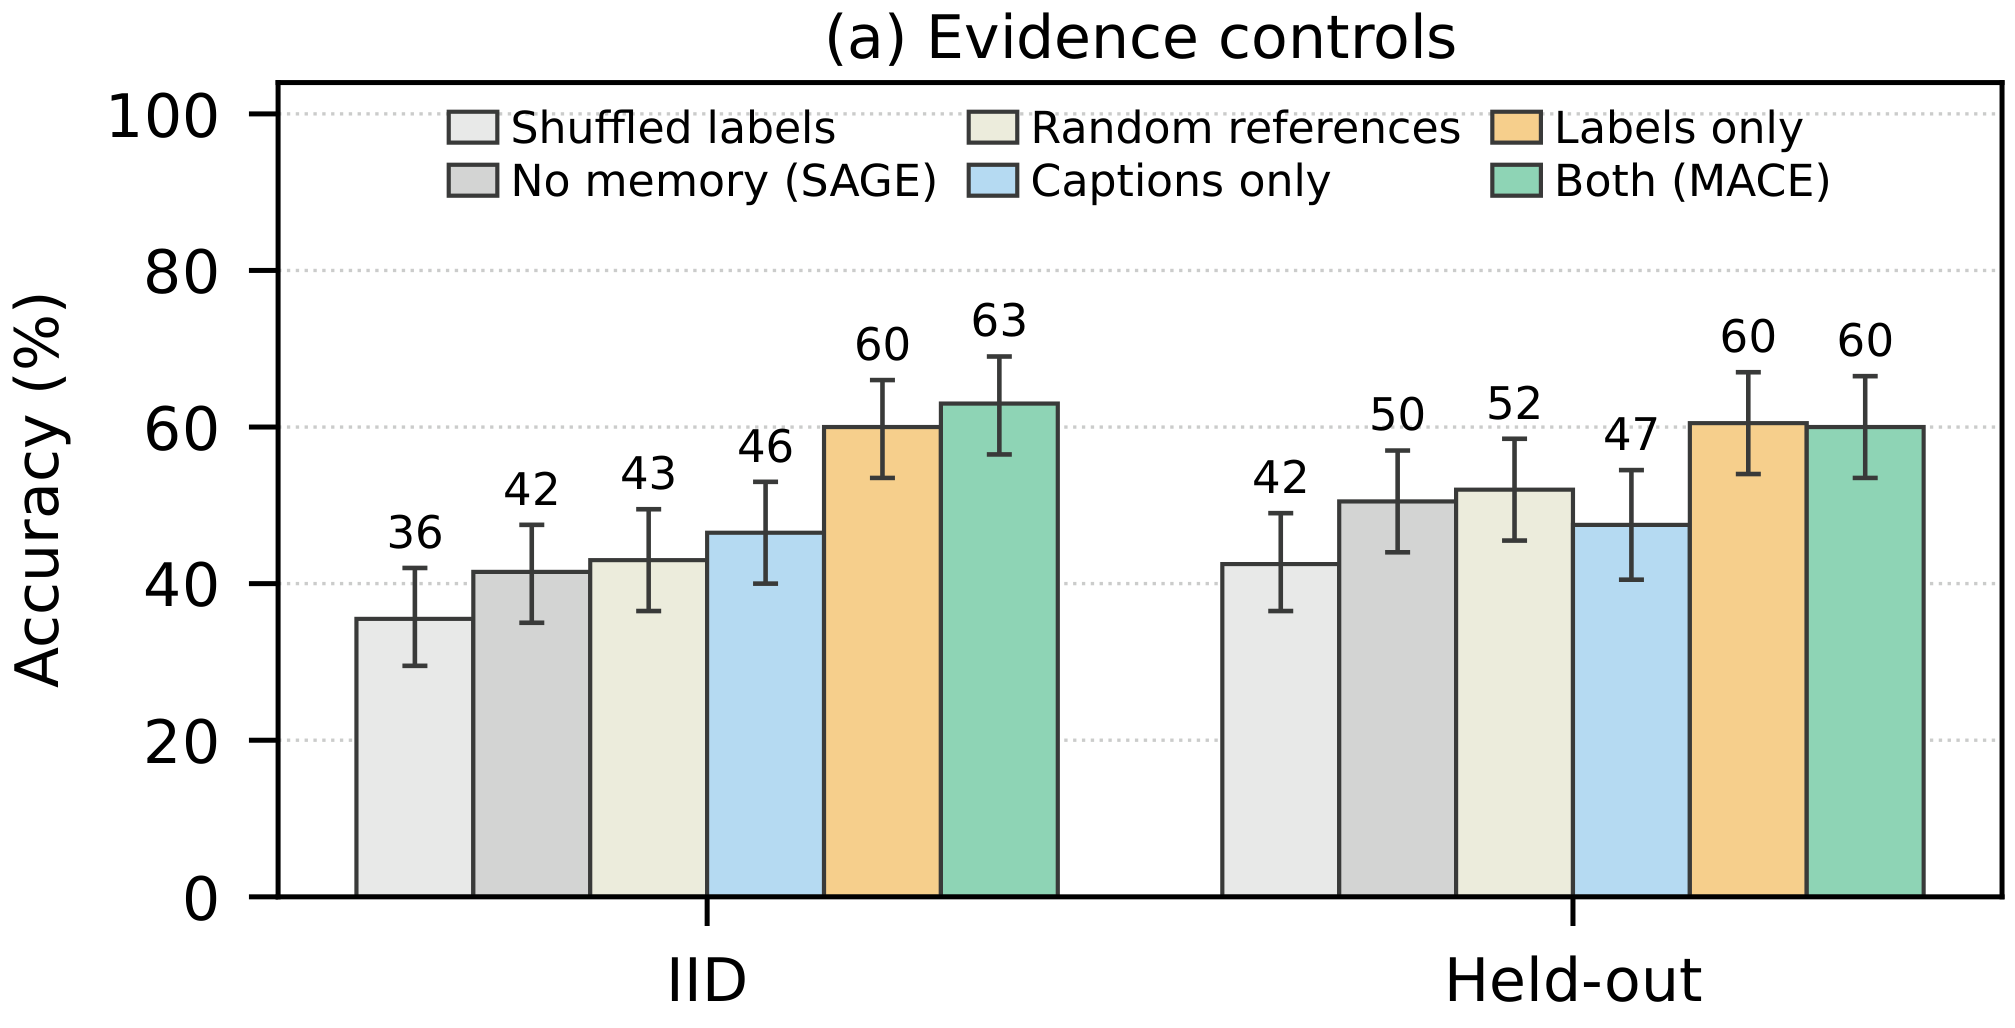
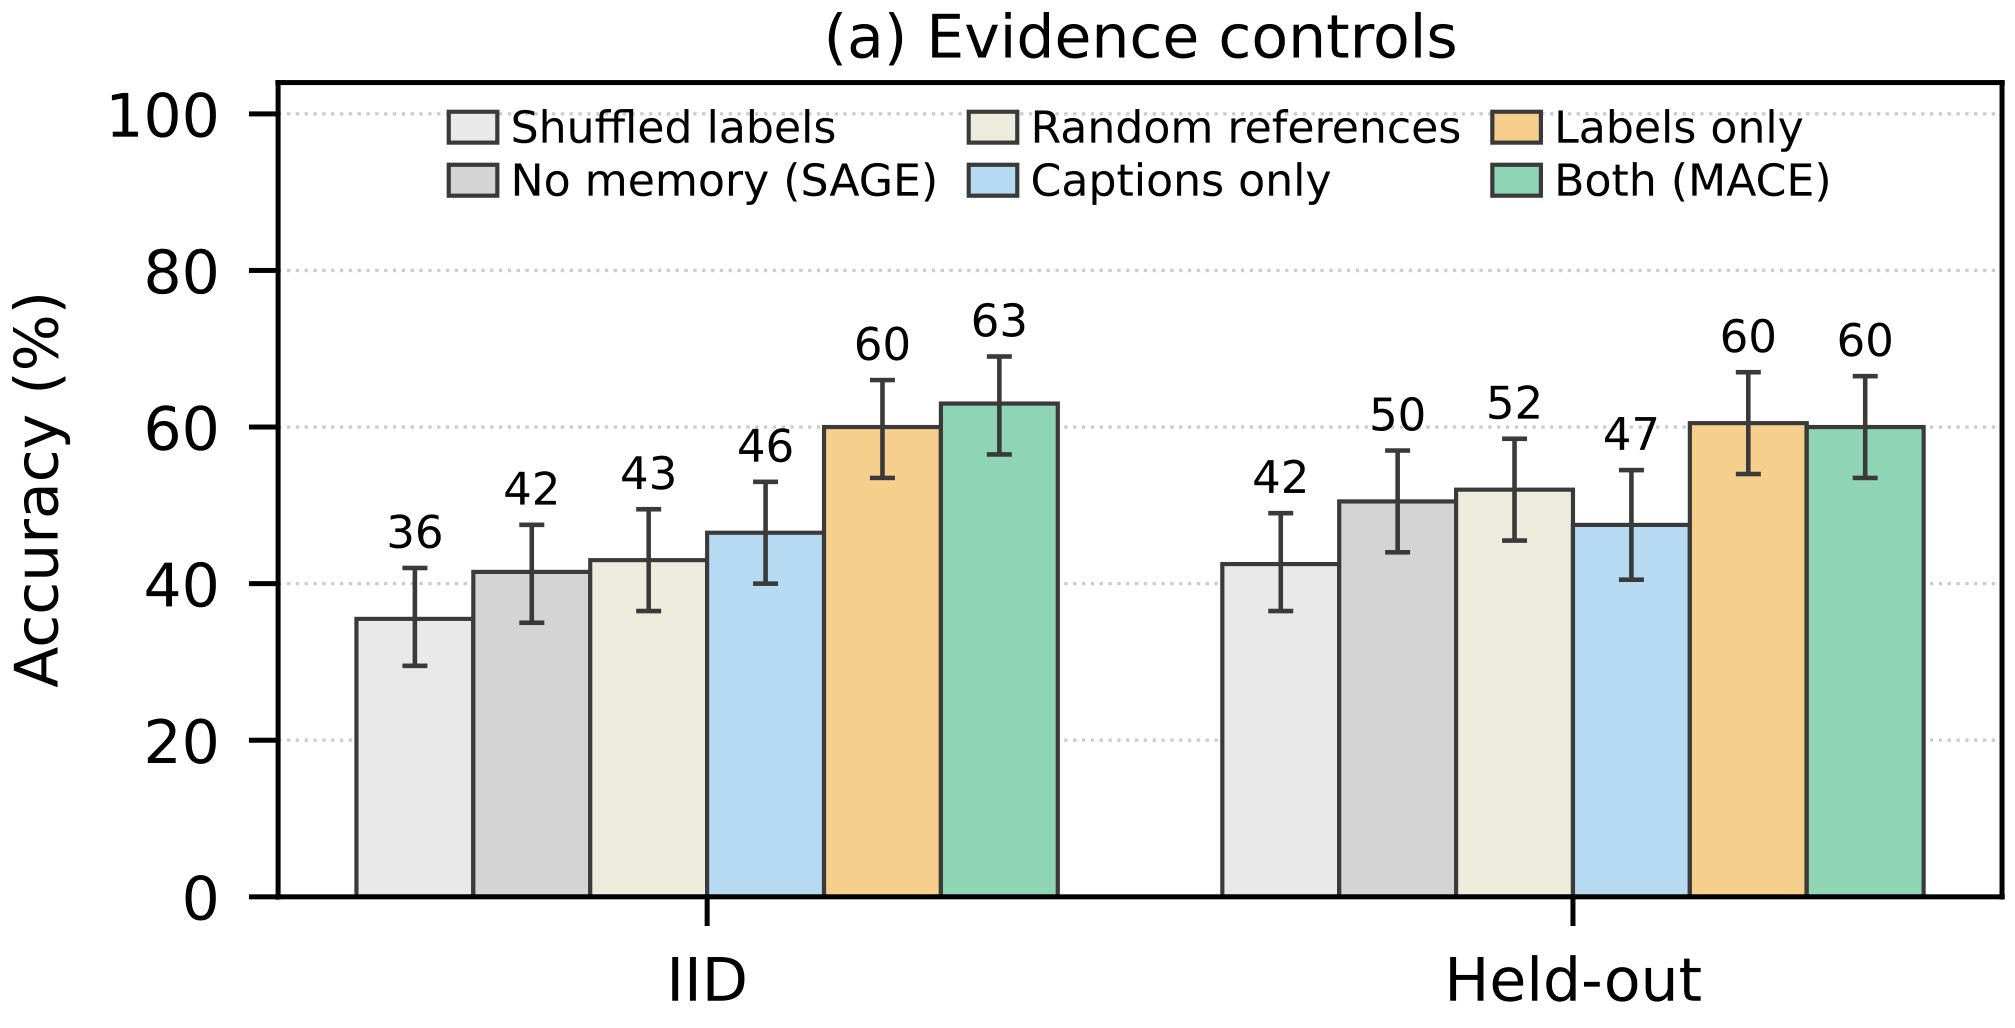
Update Figure 1 and traces to the final paper figures; sync code

diff --git a/code/mace10/build_submission.py b/code/mace10/build_submission.py
@@ -1,0 +1,105 @@
+"""Write the AAAI-compliant single-file paper from mace10/paper_src and render the TikZ figures to PDF.
+
+  python -m mace10.build_submission <overleaf_clone>      needs pdflatex on PATH
+
+AAAI kit rules applied: one .tex file (no \\input), no embedded links or bookmarks, no \\tiny or \\setlength, no float changes,
+plain title block, no Identity-H or Type 3 fonts, only used graphics in the project.
+"""
+from __future__ import annotations
+
+import re
+import shutil
+import subprocess
+import sys
+from pathlib import Path
+
+SRC = Path(__file__).resolve().parent / "paper_src"
+FIGS = ["fig2_crops", "fig_evidence", "fig_heat", "fig3_panels", "fig4_stability_cost", "fig_cost"]
+PRE = r"""\documentclass[letterpaper]{article}
+\usepackage[preprint]{aaai2027}
+\usepackage[hyphens]{url}
+\usepackage{graphicx}
+\urlstyle{rm}
+\def\UrlFont{\rm}
+\usepackage{natbib}
+\usepackage{caption}
+\frenchspacing
+\usepackage{booktabs}
+\usepackage{amsmath}
+\usepackage{colortbl}
+\usepackage{pifont}
+\definecolor{bestgreen}{RGB}{200,240,205}
+\newcommand{\cm}{\ding{51}}
+\newcommand{\dm}{--}
+\newcommand{\mcite}[2]{\shortstack[l]{#1\\{\scriptsize\citet{#2}}}}
+\setcounter{secnumdepth}{1}
+
+\title{MACE: Memory-Augmented Crop-Disease Evaluation\\of Frozen Vision-Language Models}
+"""
+
+
+def macros():
+    m = {}
+    for f in ("numbers.tex", "numbers_analysis.tex", "numbers_mace10.tex", "case_data.tex"):
+        for k, v in re.findall(r"\\newcommand\{\\(\w+)\}\{(.*)\}\s*$", (SRC / f).read_text(), flags=re.M):
+            m[k] = v
+    return m
+
+
+def render(name, body, M, opts="border=0pt,varwidth=7in"):
+    """Render a TikZ or tcolorbox figure to a stand-alone PDF. Figure text is part of the graphic."""
+    work = SRC / "_render"; work.mkdir(exist_ok=True)
+    defs = "\n".join(f"\\newcommand{{\\{k}}}{{{v}}}" for k, v in M.items())
+    tex = ("\\documentclass[" + opts + "]{standalone}\n" r"\usepackage{newtxtext,helvet,graphicx,xcolor,tikz,fontawesome5}\usepackage[skins]{tcolorbox}\usepackage{pifont}\usepackage{amsmath}"
+           "\n" r"\usetikzlibrary{positioning,calc,arrows.meta}" "\n" + defs + "\n" r"\setlength{\textwidth}{7in}" "\n" r"\begin{document}" "\n" + body + "\n" r"\end{document}" "\n")
+    (work / f"{name}.tex").write_text(tex)
+    for _ in range(2):
+        r = subprocess.run(["pdflatex", "-interaction=nonstopmode", f"-output-directory={work}", str(work / f"{name}.tex")], cwd=SRC, capture_output=True, text=True)
+    if not (work / f"{name}.pdf").exists() or "\n! " in r.stdout:
+        raise SystemExit(r.stdout[-1500:])
+    return work / f"{name}.pdf"
+
+
+def main(out):
+    out = Path(out); (out / "figures").mkdir(parents=True, exist_ok=True); M = macros()
+    t = (SRC / "main.tex").read_text()
+    shutil.copy(render("overview", (SRC / "figures/overview_tikz.tex").read_text(), M, "border=0pt"), out / "figures/overview.pdf")
+    shutil.copy(render("fig3_traces", (SRC / "figures/fig3_traces.tex").read_text(), M), out / "figures/fig3_traces.pdf")
+    for f in FIGS:
+        shutil.copy(SRC / f"figures/{f}.pdf", out / f"figures/{f}.pdf")
+    body = t[t.index(r"\author{"):]
+    body = "\n".join(l for l in body.split("\n") if not l.lstrip().startswith("%"))
+    prior = re.sub(r"^%.*\n", "", (SRC / "tables/t_prior.tex").read_text(), flags=re.M)
+    prior = re.sub(r"\\newcommand.*\n", "", prior).replace(r"\setlength{\tabcolsep}{2.4pt}", "").replace(r"\macelogo\ ", "").replace(r"\scriptsize", r"\footnotesize", 1)
+    prior = prior.replace(r"\begin{tabular}{@{}lccccc l@{}}", r"\begin{tabular}{@{}lccccc@{}}")
+    prior = re.sub(r" & \\textbf\{Evidence at\} \\\\", r" \\\\", prior); prior = re.sub(r" & \\textbf\{test time\} \\\\", r" \\\\", prior)
+    prior = re.sub(r"(\\mcite\{[^\n]*?|\\textbf\{MACE \(ours\)\}[^\n]*?) & (?:Image only|Feature cache|Example images|KB \+ images|\\textbf\{KB \+ labeled captions\}) \\\\", r"\1 \\\\", prior)
+    tm = (SRC / "tables/t_main.tex").read_text().replace(r"\macelogo\ ", "")
+    tm = re.sub(r"\\setlength\{\\tabcolsep\}\{[^}]*\}", "", tm).replace(r"{\tiny[", r"{\scriptsize[").replace(r"\begin{tabular}{lcccc}", r"\begin{tabular}{lcc}").replace(r"\multicolumn{5}", r"\multicolumn{3}")
+    rows = []
+    for l in tm.split("\n"):
+        if l.count("&") == 4:
+            l = " & ".join(x.strip() for x in l.replace(r" \\", "").split("&")[:3]) + r" \\"
+        rows.append(l)
+    tm = "\n".join(rows).replace(r"\scriptsize", r"\footnotesize", 1).replace(" Green: best planned method.", " Green: best planned method.")
+    body = body.replace(r"\input{tables/t_prior.tex}", prior).replace(r"\input{tables/t_main.tex}", tm)
+    body = body.replace(r"\resizebox{0.98\textwidth}{!}{\input{figures/overview_tikz.tex}}", r"\includegraphics[width=\textwidth]{figures/overview.pdf}")
+    body = re.sub(r"\\input\{figures/fig3_traces\.tex\}\s*\\vspace\{3pt\}\s*", r"\\includegraphics[width=\\textwidth]{figures/fig3_traces.pdf}\n\n", body)
+    body = body.replace("tirtho@iastate.edu, soumiks@iastate.edu\\\\[2pt]\n\\weblink{https://mace-bench.github.io/}{\\faGlobe\\ mace-bench.github.io}\n", "tirtho@iastate.edu, soumiks@iastate.edu\n")
+    body = body.replace("\\end{abstract}\n", "\\end{abstract}\n\n\\begin{links}\n  \\link{Website}{https://mace-bench.github.io/}\n  \\link{Code}{https://github.com/MACE-Bench/MACE-Bench.github.io}\n\\end{links}\n", 1)
+    body = body.replace(r"\weblink{https://mace-bench.github.io/#license}{per-image credits are online}", r"per-image credits are on the website")
+    for k in sorted(M, key=len, reverse=True):
+        body = re.sub(r"\\" + k + r"(\{\})?(?![A-Za-z])", lambda _: M[k], body)
+    body = re.sub(r"\n{3,}", "\n\n", body)
+    (out / "main.tex").write_text(PRE + "\n" + body)
+    bib = (SRC / "references.bib").read_text()
+    while r"\weblink{" in bib:
+        bib = re.sub(r"\\weblink\{[^{}]*\}\{((?:[^{}]|\{[^{}]*\})*)\}", r"\1", bib)
+    (out / "references.bib").write_text(bib)
+    for f in ("aaai2027.sty", "aaai2027.bst"):
+        shutil.copy(SRC / f, out / f)
+    print("written", out)
+
+
+if __name__ == "__main__":
+    main(sys.argv[1])

diff --git a/code/mace10/figures.py b/code/mace10/figures.py
@@ -20,6 +20,8 @@ RES = json.loads((OUT / "results.json").read_text())
 A = RES["accuracy"]
 
 OI = {"blue": "#0072B2", "green": "#009E73", "verm": "#D55E00", "pink": "#CC79A7", "gold": "#E69F00", "sky": "#56B4E9", "grey": "#8a8a8a"}
+import matplotlib.patheffects as _pe  # noqa: E402
+plt.rcParams["path.effects"] = [_pe.Normal()]   # draw text as outlines: AAAI bans Identity-H and Type 3 fonts
 plt.rcParams.update({"font.family": "DejaVu Sans", "font.size": 7.2, "axes.spines.top": False, "axes.spines.right": False, "axes.linewidth": 0.6,
                      "pdf.fonttype": 42, "xtick.major.width": 0.6, "ytick.major.width": 0.6, "legend.frameon": False})
 

diff --git a/code/mace10/paper.py b/code/mace10/paper.py
@@ -20,7 +20,7 @@ import numpy as np
 import pandas as pd
 
 HERE = Path(__file__).resolve().parent; OUT = HERE / "out"; LOCK = HERE / "locked"
-PAPER = HERE.parent.parent.parent / "papers/2026_mace_agriai_AAAI"
+PAPER = HERE / "paper_src"   # editable multi-file source; mace10/build_submission.py writes the single-file Overleaf paper
 PILOT = HERE.parent / "runs"
 NR = "\\nr{}"; NA = "\\na{}"
 cells: list[dict] = []; mac: dict[str, str] = {}
